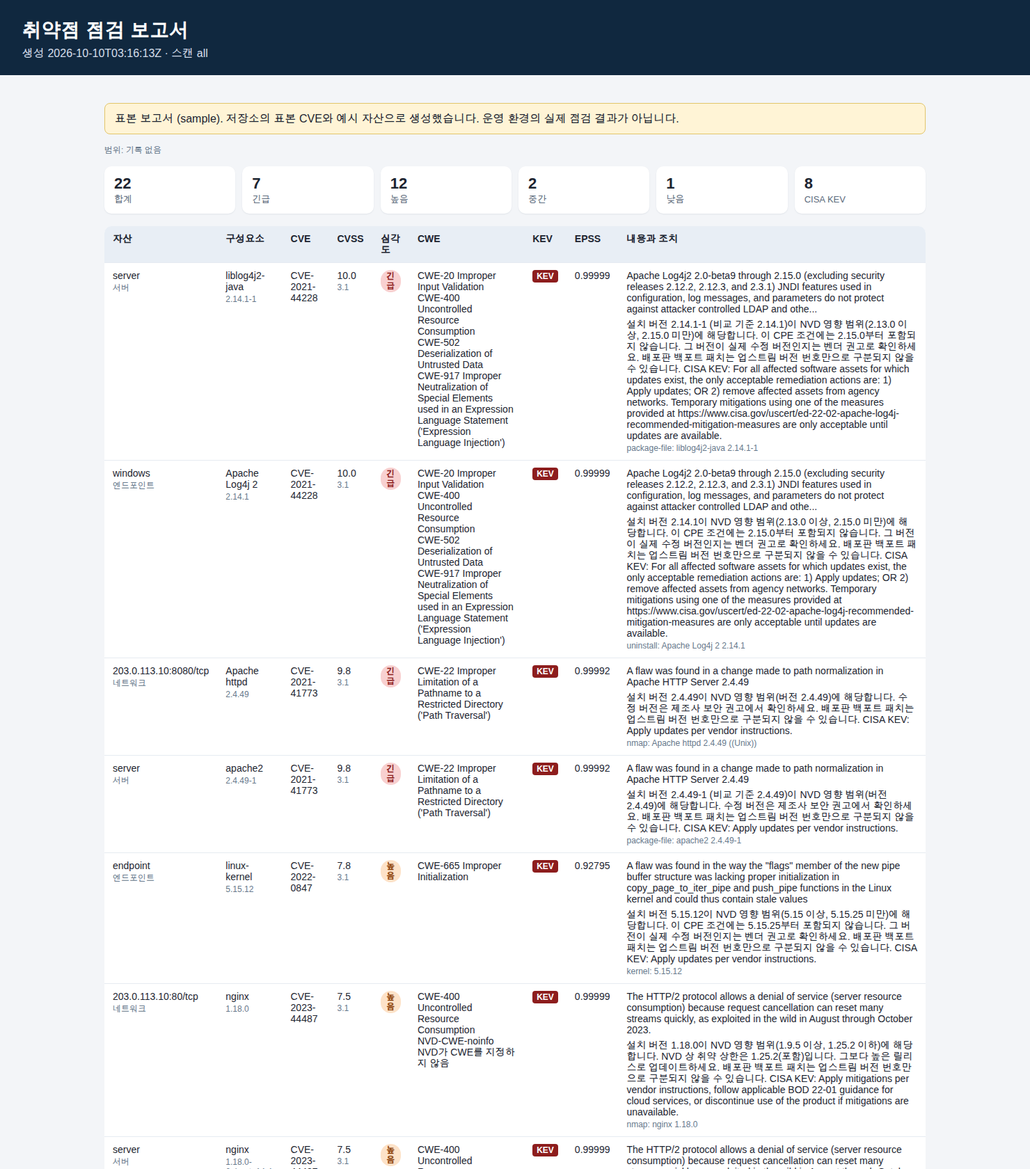
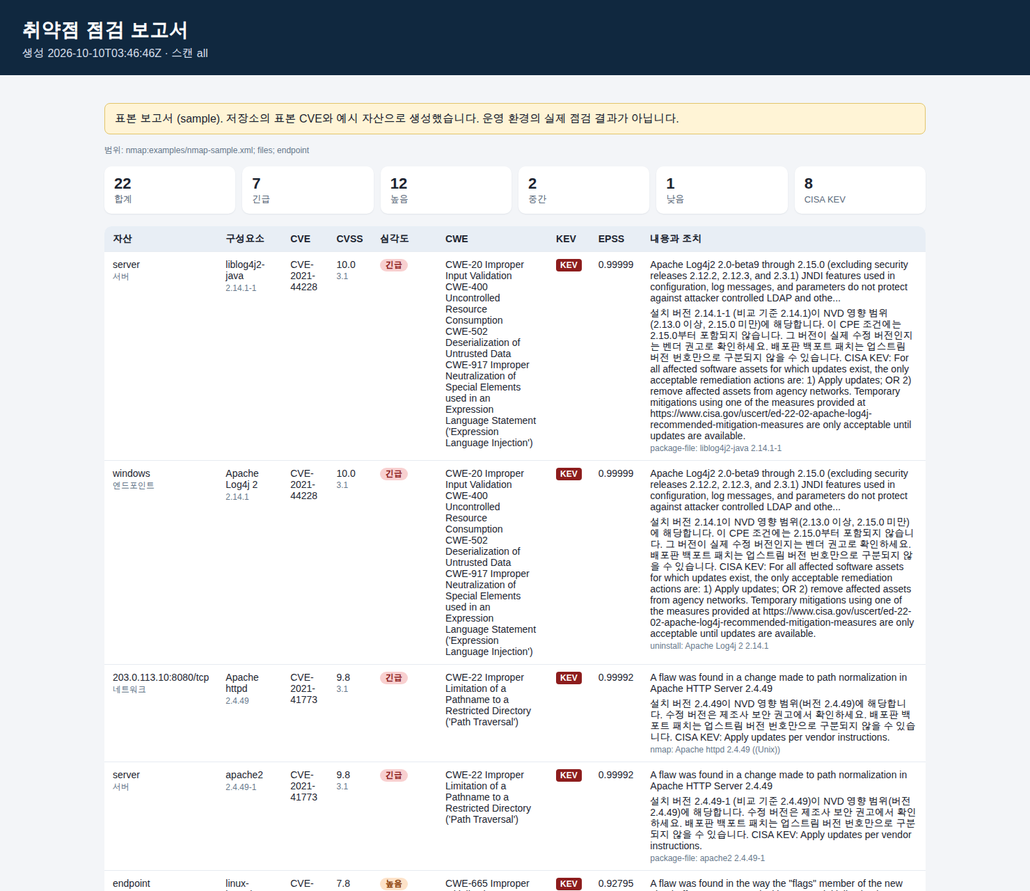
Refresh sample reports from a real sample run.
Join stored scan scopes in creation order, and regenerate the CLI text, HTML report, and screenshots so wide Hangul columns, the scope line, and five-decimal EPSS match the new output.

diff --git a/docs/sample-report.html b/docs/sample-report.html
@@ -19,7 +19,8 @@ main { max-width: 1180px; margin: 0 auto; padding: 24px; }
 table { width: 100%; border-collapse: collapse; background: #fff; border-radius: 10px; overflow: hidden; }
 th, td { text-align: left; vertical-align: top; padding: 10px 12px;
   border-bottom: 1px solid #e6ebf1; font-size: 14px; }
-th { background: #e8eef5; font-weight: 650; }
+th { background: #e8eef5; font-weight: 650; white-space: nowrap; }
+.sevcol { white-space: nowrap; min-width: 5em; width: 1%; }
 .muted { color: #66788b; font-size: 12px; margin-top: 3px; }
 .rem { margin-top: 6px; }
 .sev { display: inline-block; padding: 2px 8px; border-radius: 999px; font-size: 12px; font-weight: 700; }
@@ -36,11 +37,11 @@ footer { color: #5c6b7c; font-size: 12px; padding: 8px 0 28px; line-height: 1.5;
 <body>
 <header>
   <h1>취약점 점검 보고서</h1>
-  <p>생성 2026-10-10T03:16:13Z · 스캔 all</p>
+  <p>생성 2026-10-10T03:46:46Z · 스캔 all</p>
 </header>
 <main>
   <p class="sample">표본 보고서 (sample). 저장소의 표본 CVE와 예시 자산으로 생성했습니다. 운영 환경의 실제 점검 결과가 아닙니다.</p>
-  <p class="muted">범위: 기록 없음</p>
+  <p class="muted">범위: nmap:examples/nmap-sample.xml; files; endpoint</p>
   <section class="cards">
     <div class="card"><b>22</b><span>합계</span></div>
     <div class="card"><b>7</b><span>긴급</span></div>
@@ -49,7 +50,7 @@ footer { color: #5c6b7c; font-size: 12px; padding: 8px 0 28px; line-height: 1.5;
     <div class="card"><b>1</b><span>낮음</span></div>
     <div class="card"><b>8</b><span>CISA KEV</span></div>
   </section>
-  <table><thead><tr><th>자산</th><th>구성요소</th><th>CVE</th><th>CVSS</th><th>심각도</th><th>CWE</th><th>KEV</th><th>EPSS</th><th>내용과 조치</th></tr></thead><tbody><tr><td>server<div class='muted'>서버</div></td><td>liblog4j2-java<div class='muted'>2.14.1-1</div></td><td>CVE-2021-44228</td><td>10.0<span class="muted"> 3.1</span></td><td><span class='sev critical'>긴급</span></td><td>CWE-20 Improper Input Validation<br>CWE-400 Uncontrolled Resource Consumption<br>CWE-502 Deserialization of Untrusted Data<br>CWE-917 Improper Neutralization of Special Elements used in an Expression Language Statement (&#x27;Expression Language Injection&#x27;)</td><td><span class="kev">KEV</span></td><td>0.99999</td><td>Apache Log4j2 2.0-beta9 through 2.15.0 (excluding security releases 2.12.2, 2.12.3, and 2.3.1) JNDI features used in configuration, log messages, and parameters do not protect against attacker controlled LDAP and othe...<div class='rem'>설치 버전 2.14.1-1 (비교 기준 2.14.1)이 NVD 영향 범위(2.13.0 이상, 2.15.0 미만)에 해당합니다. 이 CPE 조건에는 2.15.0부터 포함되지 않습니다. 그 버전이 실제 수정 버전인지는 벤더 권고로 확인하세요. 배포판 백포트 패치는 업스트림 버전 번호만으로 구분되지 않을 수 있습니다. CISA KEV: For all affected software assets for which updates exist, the only acceptable remediation actions are: 1) Apply updates; OR 2) remove affected assets from agency networks. Temporary mitigations using one of the measures provided at https://www.cisa.gov/uscert/ed-22-02-apache-log4j-recommended-mitigation-measures are only acceptable until updates are available.</div><div class='muted'>package-file: liblog4j2-java 2.14.1-1</div></td></tr><tr><td>windows<div class='muted'>엔드포인트</div></td><td>Apache Log4j 2<div class='muted'>2.14.1</div></td><td>CVE-2021-44228</td><td>10.0<span class="muted"> 3.1</span></td><td><span class='sev critical'>긴급</span></td><td>CWE-20 Improper Input Validation<br>CWE-400 Uncontrolled Resource Consumption<br>CWE-502 Deserialization of Untrusted Data<br>CWE-917 Improper Neutralization of Special Elements used in an Expression Language Statement (&#x27;Expression Language Injection&#x27;)</td><td><span class="kev">KEV</span></td><td>0.99999</td><td>Apache Log4j2 2.0-beta9 through 2.15.0 (excluding security releases 2.12.2, 2.12.3, and 2.3.1) JNDI features used in configuration, log messages, and parameters do not protect against attacker controlled LDAP and othe...<div class='rem'>설치 버전 2.14.1이 NVD 영향 범위(2.13.0 이상, 2.15.0 미만)에 해당합니다. 이 CPE 조건에는 2.15.0부터 포함되지 않습니다. 그 버전이 실제 수정 버전인지는 벤더 권고로 확인하세요. 배포판 백포트 패치는 업스트림 버전 번호만으로 구분되지 않을 수 있습니다. CISA KEV: For all affected software assets for which updates exist, the only acceptable remediation actions are: 1) Apply updates; OR 2) remove affected assets from agency networks. Temporary mitigations using one of the measures provided at https://www.cisa.gov/uscert/ed-22-02-apache-log4j-recommended-mitigation-measures are only acceptable until updates are available.</div><div class='muted'>uninstall: Apache Log4j 2 2.14.1</div></td></tr><tr><td>203.0.113.10:8080/tcp<div class='muted'>네트워크</div></td><td>Apache httpd<div class='muted'>2.4.49</div></td><td>CVE-2021-41773</td><td>9.8<span class="muted"> 3.1</span></td><td><span class='sev critical'>긴급</span></td><td>CWE-22 Improper Limitation of a Pathname to a Restricted Directory (&#x27;Path Traversal&#x27;)</td><td><span class="kev">KEV</span></td><td>0.99992</td><td>A flaw was found in a change made to path normalization in Apache HTTP Server 2.4.49<div class='rem'>설치 버전 2.4.49이 NVD 영향 범위(버전 2.4.49)에 해당합니다. 수정 버전은 제조사 보안 권고에서 확인하세요. 배포판 백포트 패치는 업스트림 버전 번호만으로 구분되지 않을 수 있습니다. CISA KEV: Apply updates per vendor instructions.</div><div class='muted'>nmap: Apache httpd 2.4.49 ((Unix))</div></td></tr><tr><td>server<div class='muted'>서버</div></td><td>apache2<div class='muted'>2.4.49-1</div></td><td>CVE-2021-41773</td><td>9.8<span class="muted"> 3.1</span></td><td><span class='sev critical'>긴급</span></td><td>CWE-22 Improper Limitation of a Pathname to a Restricted Directory (&#x27;Path Traversal&#x27;)</td><td><span class="kev">KEV</span></td><td>0.99992</td><td>A flaw was found in a change made to path normalization in Apache HTTP Server 2.4.49<div class='rem'>설치 버전 2.4.49-1 (비교 기준 2.4.49)이 NVD 영향 범위(버전 2.4.49)에 해당합니다. 수정 버전은 제조사 보안 권고에서 확인하세요. 배포판 백포트 패치는 업스트림 버전 번호만으로 구분되지 않을 수 있습니다. CISA KEV: Apply updates per vendor instructions.</div><div class='muted'>package-file: apache2 2.4.49-1</div></td></tr><tr><td>endpoint<div class='muted'>엔드포인트</div></td><td>linux-kernel<div class='muted'>5.15.12</div></td><td>CVE-2022-0847</td><td>7.8<span class="muted"> 3.1</span></td><td><span class='sev high'>높음</span></td><td>CWE-665 Improper Initialization</td><td><span class="kev">KEV</span></td><td>0.92795</td><td>A flaw was found in the way the &quot;flags&quot; member of the new pipe buffer structure was lacking proper initialization in copy_page_to_iter_pipe and push_pipe functions in the Linux kernel and could thus contain stale values<div class='rem'>설치 버전 5.15.12이 NVD 영향 범위(5.15 이상, 5.15.25 미만)에 해당합니다. 이 CPE 조건에는 5.15.25부터 포함되지 않습니다. 그 버전이 실제 수정 버전인지는 벤더 권고로 확인하세요. 배포판 백포트 패치는 업스트림 버전 번호만으로 구분되지 않을 수 있습니다. CISA KEV: Apply updates per vendor instructions.</div><div class='muted'>kernel: 5.15.12</div></td></tr><tr><td>203.0.113.10:80/tcp<div class='muted'>네트워크</div></td><td>nginx<div class='muted'>1.18.0</div></td><td>CVE-2023-44487</td><td>7.5<span class="muted"> 3.1</span></td><td><span class='sev high'>높음</span></td><td>CWE-400 Uncontrolled Resource Consumption<br>NVD-CWE-noinfo NVD가 CWE를 지정하지 않음</td><td><span class="kev">KEV</span></td><td>0.99999</td><td>The HTTP/2 protocol allows a denial of service (server resource consumption) because request cancellation can reset many streams quickly, as exploited in the wild in August through October 2023.<div class='rem'>설치 버전 1.18.0이 NVD 영향 범위(1.9.5 이상, 1.25.2 이하)에 해당합니다. NVD 상 취약 상한은 1.25.2(포함)입니다. 그보다 높은 릴리스로 업데이트하세요. 배포판 백포트 패치는 업스트림 버전 번호만으로 구분되지 않을 수 있습니다. CISA KEV: Apply mitigations per vendor instructions, follow applicable BOD 22-01 guidance for cloud services, or discontinue use of the product if mitigations are unavailable.</div><div class='muted'>nmap: nginx 1.18.0</div></td></tr><tr><td>server<div class='muted'>서버</div></td><td>nginx<div class='muted'>1.18.0-6ubuntu14.4</div></td><td>CVE-2023-44487</td><td>7.5<span class="muted"> 3.1</span></td><td><span class='sev high'>높음</span></td><td>CWE-400 Uncontrolled Resource Consumption<br>NVD-CWE-noinfo NVD가 CWE를 지정하지 않음</td><td><span class="kev">KEV</span></td><td>0.99999</td><td>The HTTP/2 protocol allows a denial of service (server resource consumption) because request cancellation can reset many streams quickly, as exploited in the wild in August through October 2023.<div class='rem'>설치 버전 1.18.0-6ubuntu14.4 (비교 기준 1.18.0)이 NVD 영향 범위(1.9.5 이상, 1.25.2 이하)에 해당합니다. NVD 상 취약 상한은 1.25.2(포함)입니다. 그보다 높은 릴리스로 업데이트하세요. 배포판 백포트 패치는 업스트림 버전 번호만으로 구분되지 않을 수 있습니다. CISA KEV: Apply mitigations per vendor instructions, follow applicable BOD 22-01 guidance for cloud services, or discontinue use of the product if mitigations are unavailable.</div><div class='muted'>package-file: nginx 1.18.0-6ubuntu14.4</div></td></tr><tr><td>server<div class='muted'>서버</div></td><td>libc6<div class='muted'>2.35-0ubuntu3.4</div></td><td>CVE-2023-4911</td><td>7.8<span class="muted"> 3.1</span></td><td><span class='sev high'>높음</span></td><td>CWE-787 Out-of-bounds Write<br>CWE-122 Heap-based Buffer Overflow</td><td><span class="kev">KEV</span></td><td>0.63769</td><td>A buffer overflow was discovered in the GNU C Library&#x27;s dynamic loader ld.so while processing the GLIBC_TUNABLES environment variable<div class='rem'>설치 버전 2.35-0ubuntu3.4 (비교 기준 2.35)이 NVD 영향 범위(2.34 이상, 2.39 미만)에 해당합니다. 이 CPE 조건에는 2.39부터 포함되지 않습니다. 그 버전이 실제 수정 버전인지는 벤더 권고로 확인하세요. 배포판 백포트 패치는 업스트림 버전 번호만으로 구분되지 않을 수 있습니다. CISA KEV: Apply mitigations per vendor instructions or discontinue use of the product if mitigations are unavailable.</div><div class='muted'>package-file: libc6 2.35-0ubuntu3.4</div></td></tr><tr><td>server<div class='muted'>서버</div></td><td>xz-utils<div class='muted'>5.6.1-1</div></td><td>CVE-2024-3094</td><td>10.0<span class="muted"> 3.1</span></td><td><span class='sev critical'>긴급</span></td><td>CWE-506 Embedded Malicious Code</td><td></td><td>0.85974</td><td>Malicious code was discovered in the upstream tarballs of xz, starting with version 5.6.0<div class='rem'>설치 버전 5.6.1-1 (비교 기준 5.6.1)이 NVD 영향 범위(버전 5.6.1)에 해당합니다. 수정 버전은 제조사 보안 권고에서 확인하세요. 배포판 백포트 패치는 업스트림 버전 번호만으로 구분되지 않을 수 있습니다.</div><div class='muted'>package-file: xz-utils 5.6.1-1</div></td></tr><tr><td>203.0.113.10:22/tcp<div class='muted'>네트워크</div></td><td>OpenSSH<div class='muted'>8.9p1</div></td><td>CVE-2023-38408</td><td>9.8<span class="muted"> 3.1</span></td><td><span class='sev critical'>긴급</span></td><td>CWE-428 Unquoted Search Path or Element</td><td></td><td>0.79700</td><td>The PKCS#11 feature in ssh-agent in OpenSSH before 9.3p2 has an insufficiently trustworthy search path, leading to remote code execution if an agent is forwarded to an attacker-controlled system<div class='rem'>설치 버전 8.9p1이 NVD 영향 범위(9.3 미만)에 해당합니다. 9.3 이상으로 올리는 것만으로는 부족할 수 있습니다. 같은 CVE에 개별 취약 버전(9.3, 9.3p1)이 남아 있습니다. 벤더 권고를 확인하세요. 배포판 백포트 패치는 업스트림 버전 번호만으로 구분되지 않을 수 있습니다.</div><div class='muted'>nmap: OpenSSH 8.9p1 (Ubuntu Linux; protocol 2.0)</div></td></tr><tr><td>server<div class='muted'>서버</div></td><td>openssh-server<div class='muted'>1:8.9p1-3ubuntu0.10</div></td><td>CVE-2023-38408</td><td>9.8<span class="muted"> 3.1</span></td><td><span class='sev critical'>긴급</span></td><td>CWE-428 Unquoted Search Path or Element</td><td></td><td>0.79700</td><td>The PKCS#11 feature in ssh-agent in OpenSSH before 9.3p2 has an insufficiently trustworthy search path, leading to remote code execution if an agent is forwarded to an attacker-controlled system<div class='rem'>설치 버전 1:8.9p1-3ubuntu0.10 (비교 기준 8.9p1)이 NVD 영향 범위(9.3 미만)에 해당합니다. 9.3 이상으로 올리는 것만으로는 부족할 수 있습니다. 같은 CVE에 개별 취약 버전(9.3, 9.3p1)이 남아 있습니다. 벤더 권고를 확인하세요. 배포판 백포트 패치는 업스트림 버전 번호만으로 구분되지 않을 수 있습니다.</div><div class='muted'>package-file: openssh-server 1:8.9p1-3ubuntu0.10</div></td></tr><tr><td>203.0.113.10:22/tcp<div class='muted'>네트워크</div></td><td>OpenSSH<div class='muted'>8.9p1</div></td><td>CVE-2024-6387</td><td>8.1<span class="muted"> 3.1</span></td><td><span class='sev high'>높음</span></td><td>CWE-362 Concurrent Execution using Shared Resource with Improper Synchronization (&#x27;Race Condition&#x27;)<br>CWE-364 Signal Handler Race Condition</td><td></td><td>0.99506</td><td>A security regression (CVE-2006-5051) was discovered in OpenSSH&#x27;s server (sshd)<div class='rem'>설치 버전 8.9p1이 NVD 영향 범위(8.6 이상, 9.8 이하)에 해당합니다. NVD 상 취약 상한은 9.8(포함)입니다. 그보다 높은 릴리스로 업데이트하세요. 배포판 백포트 패치는 업스트림 버전 번호만으로 구분되지 않을 수 있습니다.</div><div class='muted'>nmap: OpenSSH 8.9p1 (Ubuntu Linux; protocol 2.0)</div></td></tr><tr><td>server<div class='muted'>서버</div></td><td>openssh-server<div class='muted'>1:8.9p1-3ubuntu0.10</div></td><td>CVE-2024-6387</td><td>8.1<span class="muted"> 3.1</span></td><td><span class='sev high'>높음</span></td><td>CWE-362 Concurrent Execution using Shared Resource with Improper Synchronization (&#x27;Race Condition&#x27;)<br>CWE-364 Signal Handler Race Condition</td><td></td><td>0.99506</td><td>A security regression (CVE-2006-5051) was discovered in OpenSSH&#x27;s server (sshd)<div class='rem'>설치 버전 1:8.9p1-3ubuntu0.10 (비교 기준 8.9p1)이 NVD 영향 범위(8.6 이상, 9.8 이하)에 해당합니다. NVD 상 취약 상한은 9.8(포함)입니다. 그보다 높은 릴리스로 업데이트하세요. 배포판 백포트 패치는 업스트림 버전 번호만으로 구분되지 않을 수 있습니다.</div><div class='muted'>package-file: openssh-server 1:8.9p1-3ubuntu0.10</div></td></tr><tr><td>203.0.113.10:80/tcp<div class='muted'>네트워크</div></td><td>nginx<div class='muted'>1.18.0</div></td><td>CVE-2021-23017</td><td>7.7<span class="muted"> 3.1</span></td><td><span class='sev high'>높음</span></td><td>CWE-193 Off-by-one Error</td><td></td><td>0.53461</td><td>A security issue in nginx resolver was identified, which might allow an attacker who is able to forge UDP packets from the DNS server to cause 1-byte memory overwrite, resulting in worker process crash or potential ot...<div class='rem'>설치 버전 1.18.0이 NVD 영향 범위(0.6.18 이상, 1.20.1 미만)에 해당합니다. 이 CPE 조건에는 1.20.1부터 포함되지 않습니다. 그 버전이 실제 수정 버전인지는 벤더 권고로 확인하세요. 배포판 백포트 패치는 업스트림 버전 번호만으로 구분되지 않을 수 있습니다.</div><div class='muted'>nmap: nginx 1.18.0</div></td></tr><tr><td>server<div class='muted'>서버</div></td><td>nginx<div class='muted'>1.18.0-6ubuntu14.4</div></td><td>CVE-2021-23017</td><td>7.7<span class="muted"> 3.1</span></td><td><span class='sev high'>높음</span></td><td>CWE-193 Off-by-one Error</td><td></td><td>0.53461</td><td>A security issue in nginx resolver was identified, which might allow an attacker who is able to forge UDP packets from the DNS server to cause 1-byte memory overwrite, resulting in worker process crash or potential ot...<div class='rem'>설치 버전 1.18.0-6ubuntu14.4 (비교 기준 1.18.0)이 NVD 영향 범위(0.6.18 이상, 1.20.1 미만)에 해당합니다. 이 CPE 조건에는 1.20.1부터 포함되지 않습니다. 그 버전이 실제 수정 버전인지는 벤더 권고로 확인하세요. 배포판 백포트 패치는 업스트림 버전 번호만으로 구분되지 않을 수 있습니다.</div><div class='muted'>package-file: nginx 1.18.0-6ubuntu14.4</div></td></tr><tr><td>server<div class='muted'>서버</div></td><td>openssl<div class='muted'>3.0.1-0ubuntu1</div></td><td>CVE-2022-0778</td><td>7.5<span class="muted"> 3.1</span></td><td><span class='sev high'>높음</span></td><td>CWE-835 Loop with Unreachable Exit Condition (&#x27;Infinite Loop&#x27;)</td><td></td><td>0.73188</td><td>The BN_mod_sqrt() function, which computes a modular square root, contains a bug that can cause it to loop forever for non-prime moduli<div class='rem'>설치 버전 3.0.1-0ubuntu1 (비교 기준 3.0.1)이 NVD 영향 범위(3.0.0 이상, 3.0.2 미만)에 해당합니다. 이 CPE 조건에는 3.0.2부터 포함되지 않습니다. 그 버전이 실제 수정 버전인지는 벤더 권고로 확인하세요. 배포판 백포트 패치는 업스트림 버전 번호만으로 구분되지 않을 수 있습니다.</div><div class='muted'>package-file: openssl 3.0.1-0ubuntu1</div></td></tr><tr><td>server<div class='muted'>서버</div></td><td>sshd<div class='muted'></div></td><td>설정 점검</td><td></td><td><span class='sev high'>높음</span></td><td>CWE-250 Execution with Unnecessary Privileges</td><td></td><td></td><td>SSH root 직접 로그인이 허용되어 있습니다.<div class='rem'>PermitRootLogin no 로 두고 관리자 개인 계정과 sudo를 사용하세요.</div><div class='muted'>PermitRootLogin yes</div></td></tr><tr><td>server<div class='muted'>서버</div></td><td>sshd<div class='muted'></div></td><td>설정 점검</td><td></td><td><span class='sev high'>높음</span></td><td>CWE-521 Weak Password Requirements</td><td></td><td></td><td>SSH 빈 비밀번호 로그인이 허용되어 있습니다.<div class='rem'>PermitEmptyPasswords no 로 설정하세요.</div><div class='muted'>PermitEmptyPasswords yes</div></td></tr><tr><td>server<div class='muted'>서버</div></td><td>sshd<div class='muted'></div></td><td>설정 점검</td><td></td><td><span class='sev high'>높음</span></td><td>CWE-327 Use of a Broken or Risky Cryptographic Algorithm</td><td></td><td></td><td>SSH에 취약한 암호 스위트가 포함되어 있습니다.<div class='rem'>3des, arcfour, blowfish 계열을 제거하고 현재 OpenSSH 기본 암호군을 사용하세요.</div><div class='muted'>Ciphers 3des-cbc</div></td></tr><tr><td>server<div class='muted'>서버</div></td><td>sshd<div class='muted'></div></td><td>설정 점검</td><td></td><td><span class='sev medium'>중간</span></td><td>CWE-521 Weak Password Requirements</td><td></td><td></td><td>SSH 비밀번호 인증이 켜져 있습니다.<div class='rem'>공개키 인증만 남기고 PasswordAuthentication no 를 검토하세요.</div><div class='muted'>PasswordAuthentication yes</div></td></tr><tr><td>server<div class='muted'>서버</div></td><td>sshd<div class='muted'></div></td><td>설정 점검</td><td></td><td><span class='sev medium'>중간</span></td><td>CWE-307 Improper Restriction of Excessive Authentication Attempts</td><td></td><td></td><td>SSH 인증 시도 허용 횟수가 큽니다.<div class='rem'>MaxAuthTries 를 6 이하로 낮추고 실패 시 차단 정책을 함께 두세요.</div><div class='muted'>MaxAuthTries 10</div></td></tr><tr><td>server<div class='muted'>서버</div></td><td>sshd<div class='muted'></div></td><td>설정 점검</td><td></td><td><span class='sev low'>낮음</span></td><td>CWE-276 Incorrect Default Permissions</td><td></td><td></td><td>SSH X11 포워딩이 켜져 있습니다.<div class='rem'>필요하지 않으면 X11Forwarding no 로 두세요.</div><div class='muted'>X11Forwarding yes</div></td></tr></tbody></table>
+  <table><thead><tr><th>자산</th><th>구성요소</th><th>CVE</th><th>CVSS</th><th class='sevcol'>심각도</th><th>CWE</th><th>KEV</th><th>EPSS</th><th>내용과 조치</th></tr></thead><tbody><tr><td>server<div class='muted'>서버</div></td><td>liblog4j2-java<div class='muted'>2.14.1-1</div></td><td>CVE-2021-44228</td><td>10.0<span class="muted"> 3.1</span></td><td class='sevcol'><span class='sev critical'>긴급</span></td><td>CWE-20 Improper Input Validation<br>CWE-400 Uncontrolled Resource Consumption<br>CWE-502 Deserialization of Untrusted Data<br>CWE-917 Improper Neutralization of Special Elements used in an Expression Language Statement (&#x27;Expression Language Injection&#x27;)</td><td><span class="kev">KEV</span></td><td>0.99999</td><td>Apache Log4j2 2.0-beta9 through 2.15.0 (excluding security releases 2.12.2, 2.12.3, and 2.3.1) JNDI features used in configuration, log messages, and parameters do not protect against attacker controlled LDAP and othe...<div class='rem'>설치 버전 2.14.1-1 (비교 기준 2.14.1)이 NVD 영향 범위(2.13.0 이상, 2.15.0 미만)에 해당합니다. 이 CPE 조건에는 2.15.0부터 포함되지 않습니다. 그 버전이 실제 수정 버전인지는 벤더 권고로 확인하세요. 배포판 백포트 패치는 업스트림 버전 번호만으로 구분되지 않을 수 있습니다. CISA KEV: For all affected software assets for which updates exist, the only acceptable remediation actions are: 1) Apply updates; OR 2) remove affected assets from agency networks. Temporary mitigations using one of the measures provided at https://www.cisa.gov/uscert/ed-22-02-apache-log4j-recommended-mitigation-measures are only acceptable until updates are available.</div><div class='muted'>package-file: liblog4j2-java 2.14.1-1</div></td></tr><tr><td>windows<div class='muted'>엔드포인트</div></td><td>Apache Log4j 2<div class='muted'>2.14.1</div></td><td>CVE-2021-44228</td><td>10.0<span class="muted"> 3.1</span></td><td class='sevcol'><span class='sev critical'>긴급</span></td><td>CWE-20 Improper Input Validation<br>CWE-400 Uncontrolled Resource Consumption<br>CWE-502 Deserialization of Untrusted Data<br>CWE-917 Improper Neutralization of Special Elements used in an Expression Language Statement (&#x27;Expression Language Injection&#x27;)</td><td><span class="kev">KEV</span></td><td>0.99999</td><td>Apache Log4j2 2.0-beta9 through 2.15.0 (excluding security releases 2.12.2, 2.12.3, and 2.3.1) JNDI features used in configuration, log messages, and parameters do not protect against attacker controlled LDAP and othe...<div class='rem'>설치 버전 2.14.1이 NVD 영향 범위(2.13.0 이상, 2.15.0 미만)에 해당합니다. 이 CPE 조건에는 2.15.0부터 포함되지 않습니다. 그 버전이 실제 수정 버전인지는 벤더 권고로 확인하세요. 배포판 백포트 패치는 업스트림 버전 번호만으로 구분되지 않을 수 있습니다. CISA KEV: For all affected software assets for which updates exist, the only acceptable remediation actions are: 1) Apply updates; OR 2) remove affected assets from agency networks. Temporary mitigations using one of the measures provided at https://www.cisa.gov/uscert/ed-22-02-apache-log4j-recommended-mitigation-measures are only acceptable until updates are available.</div><div class='muted'>uninstall: Apache Log4j 2 2.14.1</div></td></tr><tr><td>203.0.113.10:8080/tcp<div class='muted'>네트워크</div></td><td>Apache httpd<div class='muted'>2.4.49</div></td><td>CVE-2021-41773</td><td>9.8<span class="muted"> 3.1</span></td><td class='sevcol'><span class='sev critical'>긴급</span></td><td>CWE-22 Improper Limitation of a Pathname to a Restricted Directory (&#x27;Path Traversal&#x27;)</td><td><span class="kev">KEV</span></td><td>0.99992</td><td>A flaw was found in a change made to path normalization in Apache HTTP Server 2.4.49<div class='rem'>설치 버전 2.4.49이 NVD 영향 범위(버전 2.4.49)에 해당합니다. 수정 버전은 제조사 보안 권고에서 확인하세요. 배포판 백포트 패치는 업스트림 버전 번호만으로 구분되지 않을 수 있습니다. CISA KEV: Apply updates per vendor instructions.</div><div class='muted'>nmap: Apache httpd 2.4.49 ((Unix))</div></td></tr><tr><td>server<div class='muted'>서버</div></td><td>apache2<div class='muted'>2.4.49-1</div></td><td>CVE-2021-41773</td><td>9.8<span class="muted"> 3.1</span></td><td class='sevcol'><span class='sev critical'>긴급</span></td><td>CWE-22 Improper Limitation of a Pathname to a Restricted Directory (&#x27;Path Traversal&#x27;)</td><td><span class="kev">KEV</span></td><td>0.99992</td><td>A flaw was found in a change made to path normalization in Apache HTTP Server 2.4.49<div class='rem'>설치 버전 2.4.49-1 (비교 기준 2.4.49)이 NVD 영향 범위(버전 2.4.49)에 해당합니다. 수정 버전은 제조사 보안 권고에서 확인하세요. 배포판 백포트 패치는 업스트림 버전 번호만으로 구분되지 않을 수 있습니다. CISA KEV: Apply updates per vendor instructions.</div><div class='muted'>package-file: apache2 2.4.49-1</div></td></tr><tr><td>endpoint<div class='muted'>엔드포인트</div></td><td>linux-kernel<div class='muted'>5.15.12</div></td><td>CVE-2022-0847</td><td>7.8<span class="muted"> 3.1</span></td><td class='sevcol'><span class='sev high'>높음</span></td><td>CWE-665 Improper Initialization</td><td><span class="kev">KEV</span></td><td>0.92795</td><td>A flaw was found in the way the &quot;flags&quot; member of the new pipe buffer structure was lacking proper initialization in copy_page_to_iter_pipe and push_pipe functions in the Linux kernel and could thus contain stale values<div class='rem'>설치 버전 5.15.12이 NVD 영향 범위(5.15 이상, 5.15.25 미만)에 해당합니다. 이 CPE 조건에는 5.15.25부터 포함되지 않습니다. 그 버전이 실제 수정 버전인지는 벤더 권고로 확인하세요. 배포판 백포트 패치는 업스트림 버전 번호만으로 구분되지 않을 수 있습니다. CISA KEV: Apply updates per vendor instructions.</div><div class='muted'>kernel: 5.15.12</div></td></tr><tr><td>203.0.113.10:80/tcp<div class='muted'>네트워크</div></td><td>nginx<div class='muted'>1.18.0</div></td><td>CVE-2023-44487</td><td>7.5<span class="muted"> 3.1</span></td><td class='sevcol'><span class='sev high'>높음</span></td><td>CWE-400 Uncontrolled Resource Consumption<br>NVD-CWE-noinfo NVD가 CWE를 지정하지 않음</td><td><span class="kev">KEV</span></td><td>0.99999</td><td>The HTTP/2 protocol allows a denial of service (server resource consumption) because request cancellation can reset many streams quickly, as exploited in the wild in August through October 2023.<div class='rem'>설치 버전 1.18.0이 NVD 영향 범위(1.9.5 이상, 1.25.2 이하)에 해당합니다. NVD 상 취약 상한은 1.25.2(포함)입니다. 그보다 높은 릴리스로 업데이트하세요. 배포판 백포트 패치는 업스트림 버전 번호만으로 구분되지 않을 수 있습니다. CISA KEV: Apply mitigations per vendor instructions, follow applicable BOD 22-01 guidance for cloud services, or discontinue use of the product if mitigations are unavailable.</div><div class='muted'>nmap: nginx 1.18.0</div></td></tr><tr><td>server<div class='muted'>서버</div></td><td>nginx<div class='muted'>1.18.0-6ubuntu14.4</div></td><td>CVE-2023-44487</td><td>7.5<span class="muted"> 3.1</span></td><td class='sevcol'><span class='sev high'>높음</span></td><td>CWE-400 Uncontrolled Resource Consumption<br>NVD-CWE-noinfo NVD가 CWE를 지정하지 않음</td><td><span class="kev">KEV</span></td><td>0.99999</td><td>The HTTP/2 protocol allows a denial of service (server resource consumption) because request cancellation can reset many streams quickly, as exploited in the wild in August through October 2023.<div class='rem'>설치 버전 1.18.0-6ubuntu14.4 (비교 기준 1.18.0)이 NVD 영향 범위(1.9.5 이상, 1.25.2 이하)에 해당합니다. NVD 상 취약 상한은 1.25.2(포함)입니다. 그보다 높은 릴리스로 업데이트하세요. 배포판 백포트 패치는 업스트림 버전 번호만으로 구분되지 않을 수 있습니다. CISA KEV: Apply mitigations per vendor instructions, follow applicable BOD 22-01 guidance for cloud services, or discontinue use of the product if mitigations are unavailable.</div><div class='muted'>package-file: nginx 1.18.0-6ubuntu14.4</div></td></tr><tr><td>server<div class='muted'>서버</div></td><td>libc6<div class='muted'>2.35-0ubuntu3.4</div></td><td>CVE-2023-4911</td><td>7.8<span class="muted"> 3.1</span></td><td class='sevcol'><span class='sev high'>높음</span></td><td>CWE-787 Out-of-bounds Write<br>CWE-122 Heap-based Buffer Overflow</td><td><span class="kev">KEV</span></td><td>0.63769</td><td>A buffer overflow was discovered in the GNU C Library&#x27;s dynamic loader ld.so while processing the GLIBC_TUNABLES environment variable<div class='rem'>설치 버전 2.35-0ubuntu3.4 (비교 기준 2.35)이 NVD 영향 범위(2.34 이상, 2.39 미만)에 해당합니다. 이 CPE 조건에는 2.39부터 포함되지 않습니다. 그 버전이 실제 수정 버전인지는 벤더 권고로 확인하세요. 배포판 백포트 패치는 업스트림 버전 번호만으로 구분되지 않을 수 있습니다. CISA KEV: Apply mitigations per vendor instructions or discontinue use of the product if mitigations are unavailable.</div><div class='muted'>package-file: libc6 2.35-0ubuntu3.4</div></td></tr><tr><td>server<div class='muted'>서버</div></td><td>xz-utils<div class='muted'>5.6.1-1</div></td><td>CVE-2024-3094</td><td>10.0<span class="muted"> 3.1</span></td><td class='sevcol'><span class='sev critical'>긴급</span></td><td>CWE-506 Embedded Malicious Code</td><td></td><td>0.85974</td><td>Malicious code was discovered in the upstream tarballs of xz, starting with version 5.6.0<div class='rem'>설치 버전 5.6.1-1 (비교 기준 5.6.1)이 NVD 영향 범위(버전 5.6.1)에 해당합니다. 수정 버전은 제조사 보안 권고에서 확인하세요. 배포판 백포트 패치는 업스트림 버전 번호만으로 구분되지 않을 수 있습니다.</div><div class='muted'>package-file: xz-utils 5.6.1-1</div></td></tr><tr><td>203.0.113.10:22/tcp<div class='muted'>네트워크</div></td><td>OpenSSH<div class='muted'>8.9p1</div></td><td>CVE-2023-38408</td><td>9.8<span class="muted"> 3.1</span></td><td class='sevcol'><span class='sev critical'>긴급</span></td><td>CWE-428 Unquoted Search Path or Element</td><td></td><td>0.79700</td><td>The PKCS#11 feature in ssh-agent in OpenSSH before 9.3p2 has an insufficiently trustworthy search path, leading to remote code execution if an agent is forwarded to an attacker-controlled system<div class='rem'>설치 버전 8.9p1이 NVD 영향 범위(9.3 미만)에 해당합니다. 9.3 이상으로 올리는 것만으로는 부족할 수 있습니다. 같은 CVE에 개별 취약 버전(9.3, 9.3p1)이 남아 있습니다. 벤더 권고를 확인하세요. 배포판 백포트 패치는 업스트림 버전 번호만으로 구분되지 않을 수 있습니다.</div><div class='muted'>nmap: OpenSSH 8.9p1 (Ubuntu Linux; protocol 2.0)</div></td></tr><tr><td>server<div class='muted'>서버</div></td><td>openssh-server<div class='muted'>1:8.9p1-3ubuntu0.10</div></td><td>CVE-2023-38408</td><td>9.8<span class="muted"> 3.1</span></td><td class='sevcol'><span class='sev critical'>긴급</span></td><td>CWE-428 Unquoted Search Path or Element</td><td></td><td>0.79700</td><td>The PKCS#11 feature in ssh-agent in OpenSSH before 9.3p2 has an insufficiently trustworthy search path, leading to remote code execution if an agent is forwarded to an attacker-controlled system<div class='rem'>설치 버전 1:8.9p1-3ubuntu0.10 (비교 기준 8.9p1)이 NVD 영향 범위(9.3 미만)에 해당합니다. 9.3 이상으로 올리는 것만으로는 부족할 수 있습니다. 같은 CVE에 개별 취약 버전(9.3, 9.3p1)이 남아 있습니다. 벤더 권고를 확인하세요. 배포판 백포트 패치는 업스트림 버전 번호만으로 구분되지 않을 수 있습니다.</div><div class='muted'>package-file: openssh-server 1:8.9p1-3ubuntu0.10</div></td></tr><tr><td>203.0.113.10:22/tcp<div class='muted'>네트워크</div></td><td>OpenSSH<div class='muted'>8.9p1</div></td><td>CVE-2024-6387</td><td>8.1<span class="muted"> 3.1</span></td><td class='sevcol'><span class='sev high'>높음</span></td><td>CWE-362 Concurrent Execution using Shared Resource with Improper Synchronization (&#x27;Race Condition&#x27;)<br>CWE-364 Signal Handler Race Condition</td><td></td><td>0.99506</td><td>A security regression (CVE-2006-5051) was discovered in OpenSSH&#x27;s server (sshd)<div class='rem'>설치 버전 8.9p1이 NVD 영향 범위(8.6 이상, 9.8 이하)에 해당합니다. NVD 상 취약 상한은 9.8(포함)입니다. 그보다 높은 릴리스로 업데이트하세요. 배포판 백포트 패치는 업스트림 버전 번호만으로 구분되지 않을 수 있습니다.</div><div class='muted'>nmap: OpenSSH 8.9p1 (Ubuntu Linux; protocol 2.0)</div></td></tr><tr><td>server<div class='muted'>서버</div></td><td>openssh-server<div class='muted'>1:8.9p1-3ubuntu0.10</div></td><td>CVE-2024-6387</td><td>8.1<span class="muted"> 3.1</span></td><td class='sevcol'><span class='sev high'>높음</span></td><td>CWE-362 Concurrent Execution using Shared Resource with Improper Synchronization (&#x27;Race Condition&#x27;)<br>CWE-364 Signal Handler Race Condition</td><td></td><td>0.99506</td><td>A security regression (CVE-2006-5051) was discovered in OpenSSH&#x27;s server (sshd)<div class='rem'>설치 버전 1:8.9p1-3ubuntu0.10 (비교 기준 8.9p1)이 NVD 영향 범위(8.6 이상, 9.8 이하)에 해당합니다. NVD 상 취약 상한은 9.8(포함)입니다. 그보다 높은 릴리스로 업데이트하세요. 배포판 백포트 패치는 업스트림 버전 번호만으로 구분되지 않을 수 있습니다.</div><div class='muted'>package-file: openssh-server 1:8.9p1-3ubuntu0.10</div></td></tr><tr><td>203.0.113.10:80/tcp<div class='muted'>네트워크</div></td><td>nginx<div class='muted'>1.18.0</div></td><td>CVE-2021-23017</td><td>7.7<span class="muted"> 3.1</span></td><td class='sevcol'><span class='sev high'>높음</span></td><td>CWE-193 Off-by-one Error</td><td></td><td>0.53461</td><td>A security issue in nginx resolver was identified, which might allow an attacker who is able to forge UDP packets from the DNS server to cause 1-byte memory overwrite, resulting in worker process crash or potential ot...<div class='rem'>설치 버전 1.18.0이 NVD 영향 범위(0.6.18 이상, 1.20.1 미만)에 해당합니다. 이 CPE 조건에는 1.20.1부터 포함되지 않습니다. 그 버전이 실제 수정 버전인지는 벤더 권고로 확인하세요. 배포판 백포트 패치는 업스트림 버전 번호만으로 구분되지 않을 수 있습니다.</div><div class='muted'>nmap: nginx 1.18.0</div></td></tr><tr><td>server<div class='muted'>서버</div></td><td>nginx<div class='muted'>1.18.0-6ubuntu14.4</div></td><td>CVE-2021-23017</td><td>7.7<span class="muted"> 3.1</span></td><td class='sevcol'><span class='sev high'>높음</span></td><td>CWE-193 Off-by-one Error</td><td></td><td>0.53461</td><td>A security issue in nginx resolver was identified, which might allow an attacker who is able to forge UDP packets from the DNS server to cause 1-byte memory overwrite, resulting in worker process crash or potential ot...<div class='rem'>설치 버전 1.18.0-6ubuntu14.4 (비교 기준 1.18.0)이 NVD 영향 범위(0.6.18 이상, 1.20.1 미만)에 해당합니다. 이 CPE 조건에는 1.20.1부터 포함되지 않습니다. 그 버전이 실제 수정 버전인지는 벤더 권고로 확인하세요. 배포판 백포트 패치는 업스트림 버전 번호만으로 구분되지 않을 수 있습니다.</div><div class='muted'>package-file: nginx 1.18.0-6ubuntu14.4</div></td></tr><tr><td>server<div class='muted'>서버</div></td><td>openssl<div class='muted'>3.0.1-0ubuntu1</div></td><td>CVE-2022-0778</td><td>7.5<span class="muted"> 3.1</span></td><td class='sevcol'><span class='sev high'>높음</span></td><td>CWE-835 Loop with Unreachable Exit Condition (&#x27;Infinite Loop&#x27;)</td><td></td><td>0.73188</td><td>The BN_mod_sqrt() function, which computes a modular square root, contains a bug that can cause it to loop forever for non-prime moduli<div class='rem'>설치 버전 3.0.1-0ubuntu1 (비교 기준 3.0.1)이 NVD 영향 범위(3.0.0 이상, 3.0.2 미만)에 해당합니다. 이 CPE 조건에는 3.0.2부터 포함되지 않습니다. 그 버전이 실제 수정 버전인지는 벤더 권고로 확인하세요. 배포판 백포트 패치는 업스트림 버전 번호만으로 구분되지 않을 수 있습니다.</div><div class='muted'>package-file: openssl 3.0.1-0ubuntu1</div></td></tr><tr><td>server<div class='muted'>서버</div></td><td>sshd<div class='muted'></div></td><td>설정 점검</td><td></td><td class='sevcol'><span class='sev high'>높음</span></td><td>CWE-250 Execution with Unnecessary Privileges</td><td></td><td></td><td>SSH root 직접 로그인이 허용되어 있습니다.<div class='rem'>PermitRootLogin no 로 두고 관리자 개인 계정과 sudo를 사용하세요.</div><div class='muted'>PermitRootLogin yes</div></td></tr><tr><td>server<div class='muted'>서버</div></td><td>sshd<div class='muted'></div></td><td>설정 점검</td><td></td><td class='sevcol'><span class='sev high'>높음</span></td><td>CWE-521 Weak Password Requirements</td><td></td><td></td><td>SSH 빈 비밀번호 로그인이 허용되어 있습니다.<div class='rem'>PermitEmptyPasswords no 로 설정하세요.</div><div class='muted'>PermitEmptyPasswords yes</div></td></tr><tr><td>server<div class='muted'>서버</div></td><td>sshd<div class='muted'></div></td><td>설정 점검</td><td></td><td class='sevcol'><span class='sev high'>높음</span></td><td>CWE-327 Use of a Broken or Risky Cryptographic Algorithm</td><td></td><td></td><td>SSH에 취약한 암호 스위트가 포함되어 있습니다.<div class='rem'>3des, arcfour, blowfish 계열을 제거하고 현재 OpenSSH 기본 암호군을 사용하세요.</div><div class='muted'>Ciphers 3des-cbc</div></td></tr><tr><td>server<div class='muted'>서버</div></td><td>sshd<div class='muted'></div></td><td>설정 점검</td><td></td><td class='sevcol'><span class='sev medium'>중간</span></td><td>CWE-521 Weak Password Requirements</td><td></td><td></td><td>SSH 비밀번호 인증이 켜져 있습니다.<div class='rem'>공개키 인증만 남기고 PasswordAuthentication no 를 검토하세요.</div><div class='muted'>PasswordAuthentication yes</div></td></tr><tr><td>server<div class='muted'>서버</div></td><td>sshd<div class='muted'></div></td><td>설정 점검</td><td></td><td class='sevcol'><span class='sev medium'>중간</span></td><td>CWE-307 Improper Restriction of Excessive Authentication Attempts</td><td></td><td></td><td>SSH 인증 시도 허용 횟수가 큽니다.<div class='rem'>MaxAuthTries 를 6 이하로 낮추고 실패 시 차단 정책을 함께 두세요.</div><div class='muted'>MaxAuthTries 10</div></td></tr><tr><td>server<div class='muted'>서버</div></td><td>sshd<div class='muted'></div></td><td>설정 점검</td><td></td><td class='sevcol'><span class='sev low'>낮음</span></td><td>CWE-276 Incorrect Default Permissions</td><td></td><td></td><td>SSH X11 포워딩이 켜져 있습니다.<div class='rem'>필요하지 않으면 X11Forwarding no 로 두세요.</div><div class='muted'>X11Forwarding yes</div></td></tr></tbody></table>
   <footer>
     <p>This product uses data from the NVD API but is not endorsed or certified by the NVD.</p>
     <p>CVE 설명은 NVD 영문 원문입니다. CVSS와 CPE 범위는 NVD 값을 그대로 사용합니다.

diff --git a/src/vulnscan/db.py b/src/vulnscan/db.py
@@ -401,7 +401,7 @@ class Database:
         return self.conn.execute("SELECT * FROM scan WHERE scan_id = ?", (scan_id,)).fetchone()
 
     def scans(self) -> list[sqlite3.Row]:
-        return list(self.conn.execute("SELECT * FROM scan ORDER BY started_at, scan_id"))
+        return list(self.conn.execute("SELECT * FROM scan ORDER BY started_at, rowid"))
 
     def findings(self, scan_id: str | None) -> list[sqlite3.Row]:
         if scan_id is None or scan_id == "all":

diff --git a/README.md b/README.md
@@ -180,7 +180,7 @@ vulnscan export --kind cve --format json --out cves.json
 
 ```text
 취약점 점검 결과
-생성 시각(UTC): 2026-10-10T03:16:13Z  스캔: all
+생성 시각(UTC): 2026-10-10T03:46:46Z  스캔: all
 합계 22  긴급 7  높음 12  중간 2  낮음 1  KEV 8  인벤토리 20
 표본 보고서입니다. 운영 환경의 실제 점검 결과가 아닙니다.
 ```
